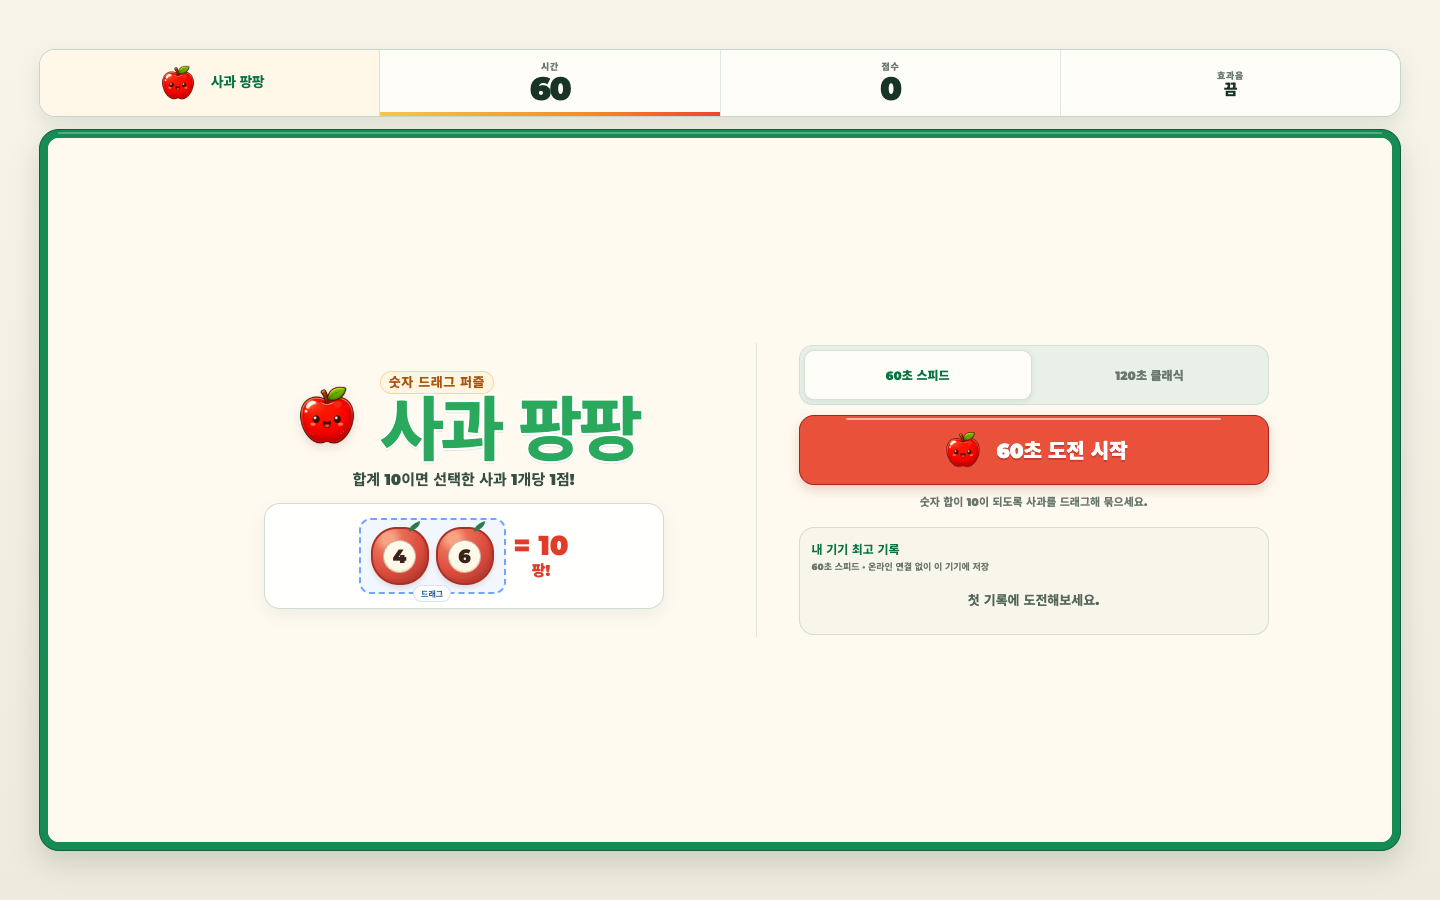
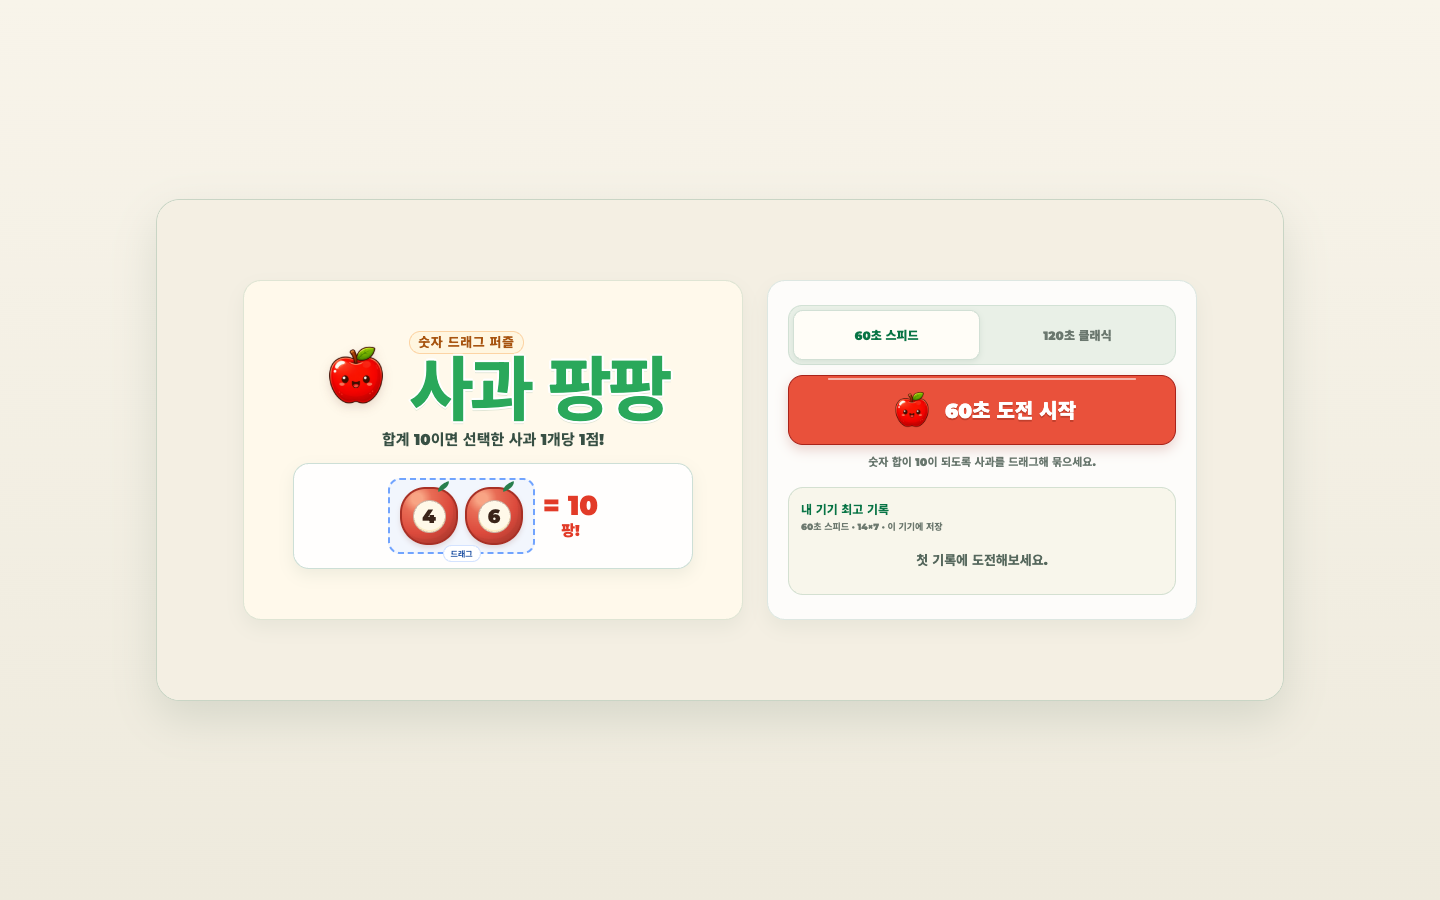
feat: increase desktop board density

diff --git a/index.html b/index.html
@@ -259,7 +259,7 @@
 
         @media (min-width: 900px) and (pointer: fine) {
             #game-container {
-                width: min(98vw, 1440px); display: flex; flex-direction: column;
+                width: min(94vw, 1160px); display: flex; flex-direction: column;
                 align-items: center; gap: 12px; padding: 12px 16px;
             }
             #header {
@@ -286,7 +286,7 @@
                 --stage-pad-top: 8px; --stage-pad-x: 8px; --stage-pad-bottom: 8px;
                 border-radius: 20px;
             }
-            canvas { width: min(100%, 1344px); }
+            canvas { width: min(100%, 1082px); }
             #screen-start { flex-direction: row; justify-content: center; align-items: center; gap: 18px; padding: 18px 24px; overflow: hidden; }
             .start-hero { width: min(48%, 480px); }
             .start-layout { width: min(44%, 430px); margin-top: 0; gap: 9px; }
@@ -622,6 +622,40 @@
             .result-card { width: min(76%, 620px); padding: 18px 22px; }
             #res-score { font-size: 64px; }
         }
+        @media (min-width: 900px) and (pointer: fine) {
+            body[data-screen="start"] #game-container { gap: 0; }
+            body[data-screen="start"] #header { display: none; }
+            body[data-screen="start"] #stage-wrap {
+                --stage-pad-top: 0px;
+                --stage-pad-x: 0px;
+                --stage-pad-bottom: 0px;
+                height: min(74svh, 500px);
+                border: 1px solid rgba(7,93,59,0.18);
+                border-radius: 24px;
+                background: #f4efe3;
+                box-shadow: 0 18px 42px rgba(32,68,48,0.12);
+            }
+            body[data-screen="start"] #stage-wrap::before { display: none; }
+            body[data-screen="start"] #screen-start {
+                align-items: center; gap: 24px; padding: 24px;
+                border-radius: 23px; background: #f4efe3;
+            }
+            body[data-screen="start"] .start-hero,
+            body[data-screen="start"] .start-layout {
+                align-self: center; justify-content: center; min-height: 340px;
+                box-sizing: border-box; border: 1px solid rgba(7,93,59,0.13);
+                border-radius: 18px; box-shadow: 0 8px 18px rgba(32,68,48,0.06);
+            }
+            body[data-screen="start"] .start-hero {
+                width: min(52%, 500px); padding: 24px;
+                border-right: 1px solid rgba(7,93,59,0.13);
+                background: #fff9eb;
+            }
+            body[data-screen="start"] .start-layout {
+                width: min(43%, 430px); padding: 20px;
+                background: rgba(255,255,255,0.82);
+            }
+        }
 
         @media (orientation: portrait) and (max-width: 520px) {
             #header { margin-bottom: 8px; }
@@ -815,17 +849,18 @@ const db = (() => {
     }
 })();
 
-const MOBILE_BOARD = Object.freeze({ rows: 12, cols: 6 });
-const DESKTOP_BOARD = Object.freeze({ rows: 6, cols: 12 });
-let ROWS = MOBILE_BOARD.rows, COLS = MOBILE_BOARD.cols;
 const CELL = 52, PAD = 16, DEFAULT_TIME = 60, MAX_NICK = 12, LOW_APPLE_LIMIT = 8;
 const DEFAULT_NICK = "플레이어";
 const {
     SCORE_VERSION,
+    MOBILE_BOARD,
+    DESKTOP_BOARD,
     scoreForApples,
     nextCombo,
     isBigPop,
+    boardForLayout,
 } = window.AppleBurstRules;
+let ROWS = MOBILE_BOARD.rows, COLS = MOBILE_BOARD.cols;
 const MAX_RANK_SCORE = 999999, SAVE_COOLDOWN_MS = 8000;
 const TUTORIAL_KEY = `apple_tutorial_seen_v${SCORE_VERSION}`;
 const dpr = window.devicePixelRatio || 1;
@@ -848,6 +883,7 @@ const Game = {
 
     init() {
         this.configureBoardShape();
+        document.body.dataset.screen = "start";
         this.resizeCanvasForBoard();
         this.nick = this.cleanNick(localStorage.getItem('apple_nick') || "") || DEFAULT_NICK;
         this.soundOn = localStorage.getItem('apple_sound') === "on";
@@ -940,14 +976,33 @@ const Game = {
         return encodeURIComponent(this.cleanNick(nick).toLowerCase() || "player").slice(0, 90);
     },
 
+    getLayoutKey() {
+        return this.desktopLayout ? "desktop" : "mobile";
+    },
+
+    getBoardLabel(layout = this.getLayoutKey()) {
+        const board = boardForLayout(layout);
+        return `${board.cols}×${board.rows}`;
+    },
+
     getRankKey(mode = this.mode) {
-        return `v${SCORE_VERSION}_${mode}_${this.playerKey}`;
+        return `v${SCORE_VERSION}_${this.getLayoutKey()}_${mode}_${this.playerKey}`;
     },
 
     getModeFromRankKey(key = "") {
-        if(String(key).startsWith(`v${SCORE_VERSION}_rush_`)) return "rush";
-        if(String(key).startsWith("rush_")) return "rush";
+        const value = String(key);
+        if(value.startsWith(`v${SCORE_VERSION}_desktop_rush_`)) return "rush";
+        if(value.startsWith(`v${SCORE_VERSION}_mobile_rush_`)) return "rush";
+        if(value.startsWith(`v${SCORE_VERSION}_rush_`)) return "rush";
+        if(value.startsWith("rush_")) return "rush";
         return "classic";
+    },
+
+    getLayoutFromRankKey(key = "") {
+        const value = String(key);
+        if(value.startsWith(`v${SCORE_VERSION}_desktop_`)) return "desktop";
+        if(value.startsWith(`v${SCORE_VERSION}_mobile_`)) return "mobile";
+        return "legacy";
     },
 
     getModeLabel(mode = this.mode) {
@@ -955,7 +1010,7 @@ const Game = {
     },
 
     getBestKey(mode = this.mode) {
-        return `apple_best_v${SCORE_VERSION}_${mode}`;
+        return `apple_best_v${SCORE_VERSION}_${this.getLayoutKey()}_${mode}`;
     },
 
     getLocalBest(mode = this.mode) {
@@ -967,7 +1022,7 @@ const Game = {
     },
 
     getSaveCooldownKey(mode = this.mode) {
-        return `apple_last_save_v${SCORE_VERSION}_${mode}`;
+        return `apple_last_save_v${SCORE_VERSION}_${this.getLayoutKey()}_${mode}`;
     },
 
     validateRankSave() {
@@ -1086,7 +1141,7 @@ const Game = {
 
     configureBoardShape() {
         this.desktopLayout = this.isDesktopWide();
-        const board = this.desktopLayout ? DESKTOP_BOARD : MOBILE_BOARD;
+        const board = boardForLayout(this.desktopLayout ? "desktop" : "mobile");
         ROWS = board.rows;
         COLS = board.cols;
         document.body.dataset.layout = this.desktopLayout ? "desktop" : "mobile";
@@ -1106,11 +1161,9 @@ const Game = {
     handleViewportChange() {
         const nextDesktop = this.isDesktopWide();
         if(nextDesktop !== this.desktopLayout) {
-            if(this.grid.length) {
-                this.grid = this.grid[0].map((_, column) => this.grid.map((row) => row[column]));
-            }
+            const hadBoard = this.grid.length > 0;
             this.desktopLayout = nextDesktop;
-            const board = nextDesktop ? DESKTOP_BOARD : MOBILE_BOARD;
+            const board = boardForLayout(nextDesktop ? "desktop" : "mobile");
             ROWS = board.rows;
             COLS = board.cols;
             document.body.dataset.layout = nextDesktop ? "desktop" : "mobile";
@@ -1121,7 +1174,11 @@ const Game = {
             this.effects = [];
             this.particles = [];
             this.tutorialHint = null;
+            this.dragging = false;
             this.resizeCanvasForBoard();
+            if(hadBoard) this.buildPlayableBoard();
+            this.renderRanks(this.latestRanks);
+            if(this.active) this.showToast(`${this.getBoardLabel()} 게임판으로 다시 맞췄어요`);
         }
         this.layout();
     },
@@ -1156,10 +1213,10 @@ const Game = {
         if(this.desktopLayout) {
             const headerH = header ? header.offsetHeight : 68;
             const layoutGap = px(containerStyle.rowGap);
-            const containerW = Math.min(viewport.width * 0.98, 1440);
+            const containerW = Math.min(viewport.width * 0.94, 1160);
             const availableW = Math.max(560, containerW - containerX - frameX);
             const availableH = Math.max(330, viewport.height - containerY - headerH - layoutGap - frameY);
-            scale = Math.min(availableW / baseW, availableH / baseH, 2.05);
+            scale = Math.min(availableW / baseW, availableH / baseH, 1.65);
         } else {
             const headerH = header ? header.offsetHeight : 50;
             const headerGap = px(getComputedStyle(header).marginBottom);
@@ -1491,6 +1548,7 @@ const Game = {
             rows.push({
                 key: child.key,
                 mode: this.getModeFromRankKey(child.key),
+                layout: data.layout || this.getLayoutFromRankKey(child.key),
                 nick: this.cleanNick(data.nick) || DEFAULT_NICK,
                 score: Math.max(0, Math.round(score)),
                 updatedAt: Number(data.updatedAt) || 0,
@@ -1508,11 +1566,12 @@ const Game = {
         const rankTitle = document.getElementById('rank-title');
         const rankTabs = document.getElementById('rank-tabs');
         const modeLabel = this.getModeLabel();
+        const boardLabel = this.getBoardLabel();
 
         if(!ONLINE_RANKING_ENABLED) {
             if(rankTitle) rankTitle.textContent = "내 기기 최고 기록";
             rankTabs?.classList.add('hidden');
-            meta.innerText = `${modeLabel} · 온라인 연결 없이 이 기기에 저장`;
+            meta.innerText = `${modeLabel} · ${boardLabel} · 이 기기에 저장`;
             myRankBox.classList.add('hidden');
             myRankBox.innerHTML = "";
             list.innerHTML = myBest
@@ -1525,7 +1584,7 @@ const Game = {
         rankTabs?.classList.remove('hidden');
         const { start, end, label } = this.todayRange();
         const modeRows = rows
-            .filter(row => row.mode === this.mode)
+            .filter(row => row.mode === this.mode && row.layout === this.getLayoutKey())
             .slice()
             .sort((a, b) => b.score - a.score);
         const scopedRows = (this.rankMode === "today"
@@ -1579,6 +1638,7 @@ const Game = {
 
     start() {
         const audioReady = this.primeAudio();
+        document.body.dataset.screen = "game";
         this.enterFullscreen();
         const nickInput = document.getElementById('nick-input');
         this.nick = this.cleanNick(nickInput.value) || DEFAULT_NICK;
@@ -1618,6 +1678,7 @@ const Game = {
     end() {
         if(!this.active) return;
         this.active = false; clearInterval(this.timer);
+        document.body.dataset.screen = "result";
         this.hideComboFeedback();
         this.updateHud();
         const myBest = this.getLocalBest();
@@ -1628,7 +1689,7 @@ const Game = {
         document.getElementById('res-title').innerText = isNewBest ? "새 기록!" : "시간 끝!";
         document.getElementById('res-score').innerText = this.score.toLocaleString();
         const modeLabel = this.getModeLabel();
-        document.getElementById('res-detail').innerText = `${modeLabel} · 기기 최고 ${Math.max(myBest, this.score).toLocaleString()}점`;
+        document.getElementById('res-detail').innerText = `${modeLabel} · ${this.getBoardLabel()} · 기기 최고 ${Math.max(myBest, this.score).toLocaleString()}점`;
         document.getElementById('res-apples').innerText = this.cleared.toLocaleString();
         document.getElementById('res-combo').innerText = this.maxCombo.toLocaleString();
         document.getElementById('res-big-pops').innerText = `${this.bigPops.toLocaleString()}회`;
@@ -1671,6 +1732,7 @@ const Game = {
             nick: this.nick,
             score: Math.round(this.score),
             version: SCORE_VERSION,
+            layout: this.getLayoutKey(),
             updatedAt: firebase.database.ServerValue.TIMESTAMP,
         };
         localStorage.setItem(this.getSaveCooldownKey(), Date.now());
@@ -1692,7 +1754,7 @@ const Game = {
 
     share() {
         const modeLabel = this.getModeLabel();
-        const text = `${this.nick}님이 사과 팡팡 ${modeLabel}에서 ${this.score.toLocaleString()}점을 달성! 내 점수 이겨봐.`;
+        const text = `${this.nick}님이 사과 팡팡 ${modeLabel} ${this.getBoardLabel()}에서 ${this.score.toLocaleString()}점을 달성! 내 점수 이겨봐.`;
         const shareUrl = this.buildShareUrl();
         const message = `${text} ${shareUrl}`;
         if(navigator.share) {

diff --git a/tests/game-rules.test.js b/tests/game-rules.test.js
@@ -7,9 +7,12 @@ const {
     SCORE_VERSION,
     COMBO_WINDOW_MS,
     BIG_POP_MIN_APPLES,
+    MOBILE_BOARD,
+    DESKTOP_BOARD,
     scoreForApples,
     nextCombo,
     isBigPop,
+    boardForLayout,
 } = require('../game-rules.js');
 
 test('사과는 제거한 개수만큼 1점씩 계산한다', () => {
@@ -26,6 +29,14 @@ test('잘못된 사과 개수는 점수에 반영하지 않는다', () => {
 
 test('반응형 대형 사과 게임판은 점수 버전 8을 사용한다', () => {
     assert.equal(SCORE_VERSION, 8);
+});
+
+test('모바일과 데스크톱은 화면에 맞는 보드 밀도를 사용한다', () => {
+    assert.deepEqual(MOBILE_BOARD, { rows: 12, cols: 6 });
+    assert.deepEqual(DESKTOP_BOARD, { rows: 7, cols: 14 });
+    assert.equal(boardForLayout('mobile'), MOBILE_BOARD);
+    assert.equal(boardForLayout('desktop'), DESKTOP_BOARD);
+    assert.equal(boardForLayout('unknown'), MOBILE_BOARD);
 });
 
 test('제한 시간 안의 연속 정답만 콤보로 이어진다', () => {

diff --git a/game-rules.js b/game-rules.js
@@ -2,6 +2,8 @@
     const SCORE_VERSION = 8;
     const COMBO_WINDOW_MS = 2800;
     const BIG_POP_MIN_APPLES = 3;
+    const MOBILE_BOARD = Object.freeze({ rows: 12, cols: 6 });
+    const DESKTOP_BOARD = Object.freeze({ rows: 7, cols: 14 });
 
     function scoreForApples(count) {
         if(!Number.isFinite(count) || count <= 0) return 0;
@@ -23,13 +25,20 @@
         return Number.isFinite(count) && Math.floor(count) >= BIG_POP_MIN_APPLES;
     }
 
+    function boardForLayout(layout) {
+        return layout === "desktop" ? DESKTOP_BOARD : MOBILE_BOARD;
+    }
+
     const AppleBurstRules = Object.freeze({
         SCORE_VERSION,
         COMBO_WINDOW_MS,
         BIG_POP_MIN_APPLES,
+        MOBILE_BOARD,
+        DESKTOP_BOARD,
         scoreForApples,
         nextCombo,
         isBigPop,
+        boardForLayout,
     });
 
     if(root) root.AppleBurstRules = AppleBurstRules;

diff --git a/README.md b/README.md
@@ -27,12 +27,12 @@
 
 ## 반응형 설계
 
-게임 규칙과 전체 사과 수는 같고 화면 방향에 맞춰 배치만 변경됩니다.
+게임 규칙은 같지만 화면 크기에 맞춰 사과 밀도와 기기 최고 기록을 분리합니다.
 
 | 환경 | 게임판 | HUD | 시작 화면 |
 | --- | --- | --- | --- |
 | 모바일 | `6열 × 12행` | 상단 가로 HUD | 세로 단일 흐름 |
-| 데스크톱 | `12열 × 6행` | 왼쪽 세로 HUD | 좌우 2열 구성 |
+| 데스크톱 | `14열 × 7행` | 상단 가로 HUD | 독립형 2단 카드 |
 
 모바일:
 
@@ -45,7 +45,9 @@
 
 - 900px 이상, 정밀 포인터 환경에서 가로형 게임판 적용
 - 시간·점수·효과음을 게임판 위 가로 HUD에 배치
-- 화면 너비와 높이를 함께 계산해 게임판을 가능한 크게 표시
+- 화면 너비와 높이를 함께 계산하되 데스크톱 게임판은 약 1,100px 안에서 가독성 있게 표시
+- 데스크톱 로비는 점수판과 게임 프레임을 숨긴 독립형 2단 카드로 구성
+- 모바일·데스크톱 최고 기록을 별도 저장
 - 시작·게임·결과 화면을 가로 화면에 맞게 확장
 
 ## 시작과 피드백
